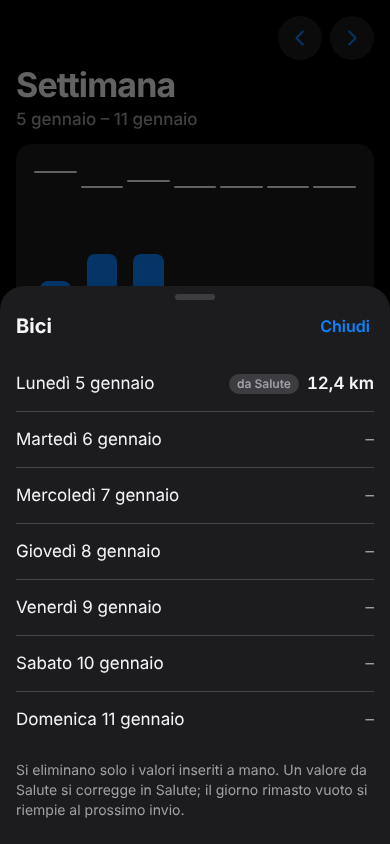
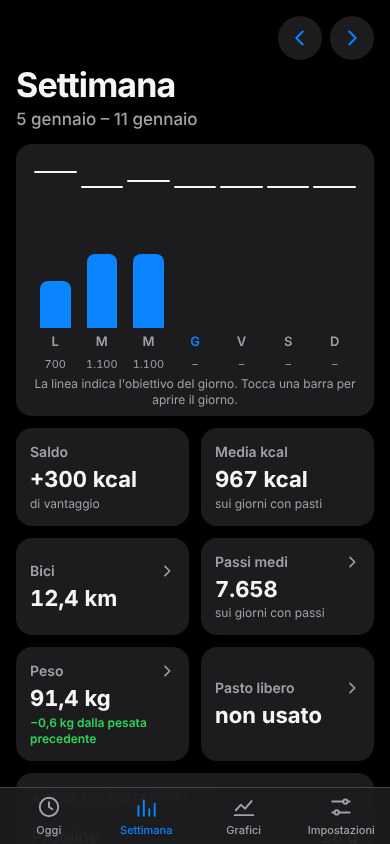
T5.4 correzioni della revisione: test della scheda Peso, ricalcolo mostrato in Settimana e in Oggi (in attesa di revisione)
Claude-Session: https://claude.ai/code/session_01Cp6uPeE1oQUwBbJ4pPJ17x

diff --git a/src/app/lib/week-actions.test.ts b/src/app/lib/week-actions.test.ts
@@ -1,6 +1,9 @@
 import { describe, expect, it } from "vitest";
 import { createMemoryDataStore } from "@/data";
 import type { ActivityRecord, MealRecord } from "@/data";
+import { loadWeekData } from "./week-data";
+import { buildTodayView } from "./today-view";
+import { weekWeight, weightCard } from "./week-weight";
 import { activityRows, defaultWeighInDate, deleteActivityValue, freeMealOfWeek, markFreeMeal, removeFreeMeal, weekMeals, weighInsInWeek, withoutActivityValue } from "./week-actions";
 
 const rec = (date: string, o: Partial<ActivityRecord> = {}): ActivityRecord => ({ date, steps: null, stepsSource: null, bikeKm: null, bikeKcalHealth: null, bikeSource: null, ...o });
@@ -90,5 +93,51 @@ describe("pasto libero della settimana", () => {
     for (const m of meals) await store.saveMeal(m);
     expect(await markFreeMeal(store, weekMeals(meals), { date: "2026-01-06", slot: "cena" })).toBe(false);
     expect((await store.listMealsBetween(WEEK[0], WEEK[6])).filter((m) => m.isFree)).toHaveLength(2);
+  });
+});
+
+describe("dopo una modifica i numeri si ricalcolano", () => {
+  const fmt = (n: number) => String(n);
+
+  it("pesata eliminata: la scheda Peso torna a «Nessuna pesata»", async () => {
+    const store = createMemoryDataStore();
+    await store.saveWeighIn({ date: "2026-01-07", weightKg: 91.4 });
+    const card = async () => {
+      const weighIns = await store.listWeighIns();
+      return weightCard(weekWeight({ monday: WEEK[0], sunday: WEEK[6], weighIns }), fmt, fmt);
+    };
+    expect((await card()).value).toBe("91.4 kg");
+    await store.deleteWeighIn("2026-01-07");
+    expect(await card()).toEqual({ value: "Nessuna pesata" });
+  });
+
+  it("scheda Peso: con pesate mostra kg e differenza, senza dice «Nessuna pesata»", () => {
+    expect(weightCard(null, fmt, fmt)).toEqual({ value: "Nessuna pesata" });
+    const w = weekWeight({ monday: WEEK[0], sunday: WEEK[6], weighIns: [{ date: "2026-01-02", weightKg: 92 }, { date: "2026-01-07", weightKg: 91.4 }], targetWeightKg: 82 });
+    expect(weightCard(w, fmt, fmt)).toEqual({ value: "91.4 kg", hint: "-0.6 kg dalla pesata precedente", tone: "ok" });
+  });
+
+  it("passi a mano eliminati: l'obiettivo di Oggi perde il bonus passi", async () => {
+    const store = createMemoryDataStore();
+    await store.saveActivity(rec("2026-01-08", { steps: 9000, stepsSource: "manuale" }));
+    const target = async () => {
+      const data = await loadWeekData(store, "2026-01-08");
+      return buildTodayView({ date: "2026-01-08", days: data.days, settings: data.settings, weightKg: 100 });
+    };
+    expect((await target()).target).toBe(2175);
+    await deleteActivityValue(store, "2026-01-08", "passi");
+    expect((await target()).target).toBe(2100);
+  });
+
+  it("pasto libero tolto: il budget del giorno conta il pasto per intero", async () => {
+    const store = createMemoryDataStore();
+    await store.saveMeal(dish("p", "2026-01-08", "pranzo", 2250, true));
+    const remaining = async () => {
+      const data = await loadWeekData(store, "2026-01-08");
+      return buildTodayView({ date: "2026-01-08", days: data.days, settings: data.settings, weightKg: 100 }).remaining;
+    };
+    expect(await remaining()).toBe(2100 - 800);
+    await removeFreeMeal(store, { date: "2026-01-08", slot: "pranzo" });
+    expect(await remaining()).toBe(2100 - 2250);
   });
 });

diff --git a/src/app/settimana-screen.tsx b/src/app/settimana-screen.tsx
@@ -13,7 +13,7 @@ import { formatDayMonth, formatNumber, formatSigned } from "./lib/format";
 import { useToday } from "./lib/use-today";
 import { useWeekData } from "./lib/use-week-data";
 import { buildWeekView } from "./lib/week-view";
-import { weekWeight } from "./lib/week-weight";
+import { weekWeight, weightCard } from "./lib/week-weight";
 
 const DATE_PARAM = /^\d{4}-\d{2}-\d{2}$/;
 
@@ -80,21 +80,14 @@ export function SettimanaScreen() {
   const view = data ? buildWeekView({ date: monday, days: data.days, settings: data.settings, today }) : null;
   const s = view?.summary;
   const weight = data ? weekWeight({ monday, sunday, weighIns: data.weighIns, profileWeightKg: data.userSettings.weightKg, targetWeightKg: data.userSettings.targetWeightKg }) : null;
+  const card = weightCard(weight, (kg) => formatNumber(kg, 1), (kg) => formatSigned(kg, 1));
   const stats: StatProps[] = s
     ? [
         { label: "Saldo", value: s.balance === null ? dash : `${formatSigned(s.balance)} kcal`, hint: s.balance === null ? undefined : s.balance < 0 ? "da recuperare" : "di vantaggio" },
         { label: "Media kcal", value: s.avgKcal === null ? dash : `${formatNumber(s.avgKcal)} kcal`, hint: "sui giorni con pasti" },
         { label: "Bici", value: s.totalKm === null ? dash : `${formatNumber(s.totalKm, 1)} km`, onOpen: () => setPanel("bici") },
         { label: "Passi medi", value: s.avgSteps === null ? dash : formatNumber(s.avgSteps), hint: "sui giorni con passi", onOpen: () => setPanel("passi") },
-        weight
-          ? {
-              label: "Peso",
-              value: `${formatNumber(weight.lastKg, 1)} kg`,
-              hint: weight.deltaKg === null ? undefined : `${formatSigned(weight.deltaKg, 1)} kg ${weight.comparedWith === "pesata" ? "dalla pesata precedente" : "dal peso di partenza"}`,
-              hintTone: weight.tone,
-              onOpen: () => setPanel("peso"),
-            }
-          : { label: "Peso", value: "Nessuna pesata", onOpen: () => setPanel("peso") },
+        { label: "Peso", value: card.value, hint: card.hint, hintTone: card.tone, onOpen: () => setPanel("peso") },
         { label: "Pasto libero", value: s.freeMealUsed ? "usato" : "non usato", onOpen: () => setPanel("libero") },
       ]
     : [];

diff --git a/src/app/lib/week-weight.ts b/src/app/lib/week-weight.ts
@@ -40,3 +40,21 @@ export function weekWeight(input: { monday: DateKey; sunday: DateKey; weighIns: 
   }
   return { lastKg: last.weightKg, lastDate: last.date, deltaKg: deltaKg === 0 ? 0 : deltaKg, comparedWith, tone };
 }
+
+export const NO_WEIGHT_TEXT = "Nessuna pesata";
+
+export interface WeightCard {
+  value: string;
+  hint?: string;
+  tone?: WeightTone;
+}
+
+/** Testi della scheda Peso della Settimana: c'è sempre; senza pesate nella settimana dice "Nessuna pesata". */
+export function weightCard(weight: WeekWeight | null, formatKg: (kg: number) => string, formatDelta: (kg: number) => string): WeightCard {
+  if (!weight) return { value: NO_WEIGHT_TEXT };
+  return {
+    value: `${formatKg(weight.lastKg)} kg`,
+    hint: weight.deltaKg === null ? undefined : `${formatDelta(weight.deltaKg)} kg ${weight.comparedWith === "pesata" ? "dalla pesata precedente" : "dal peso di partenza"}`,
+    tone: weight.tone,
+  };
+}
